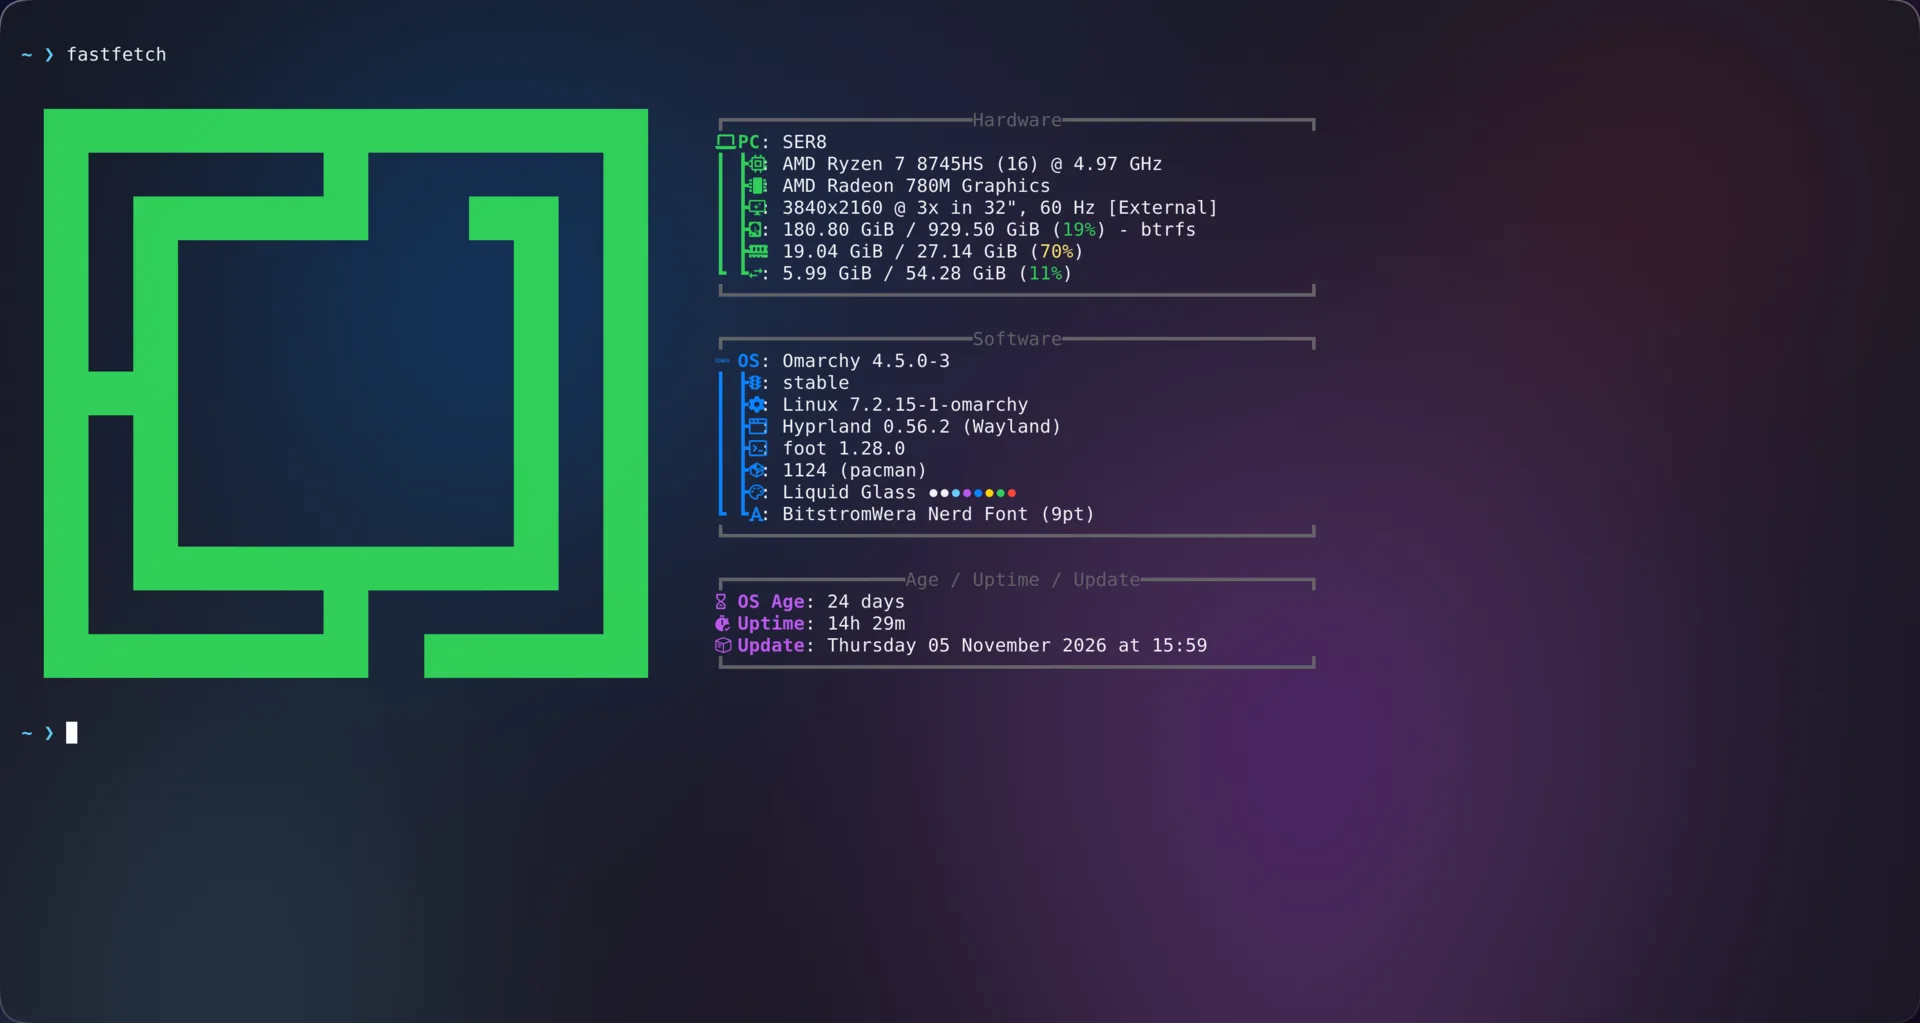
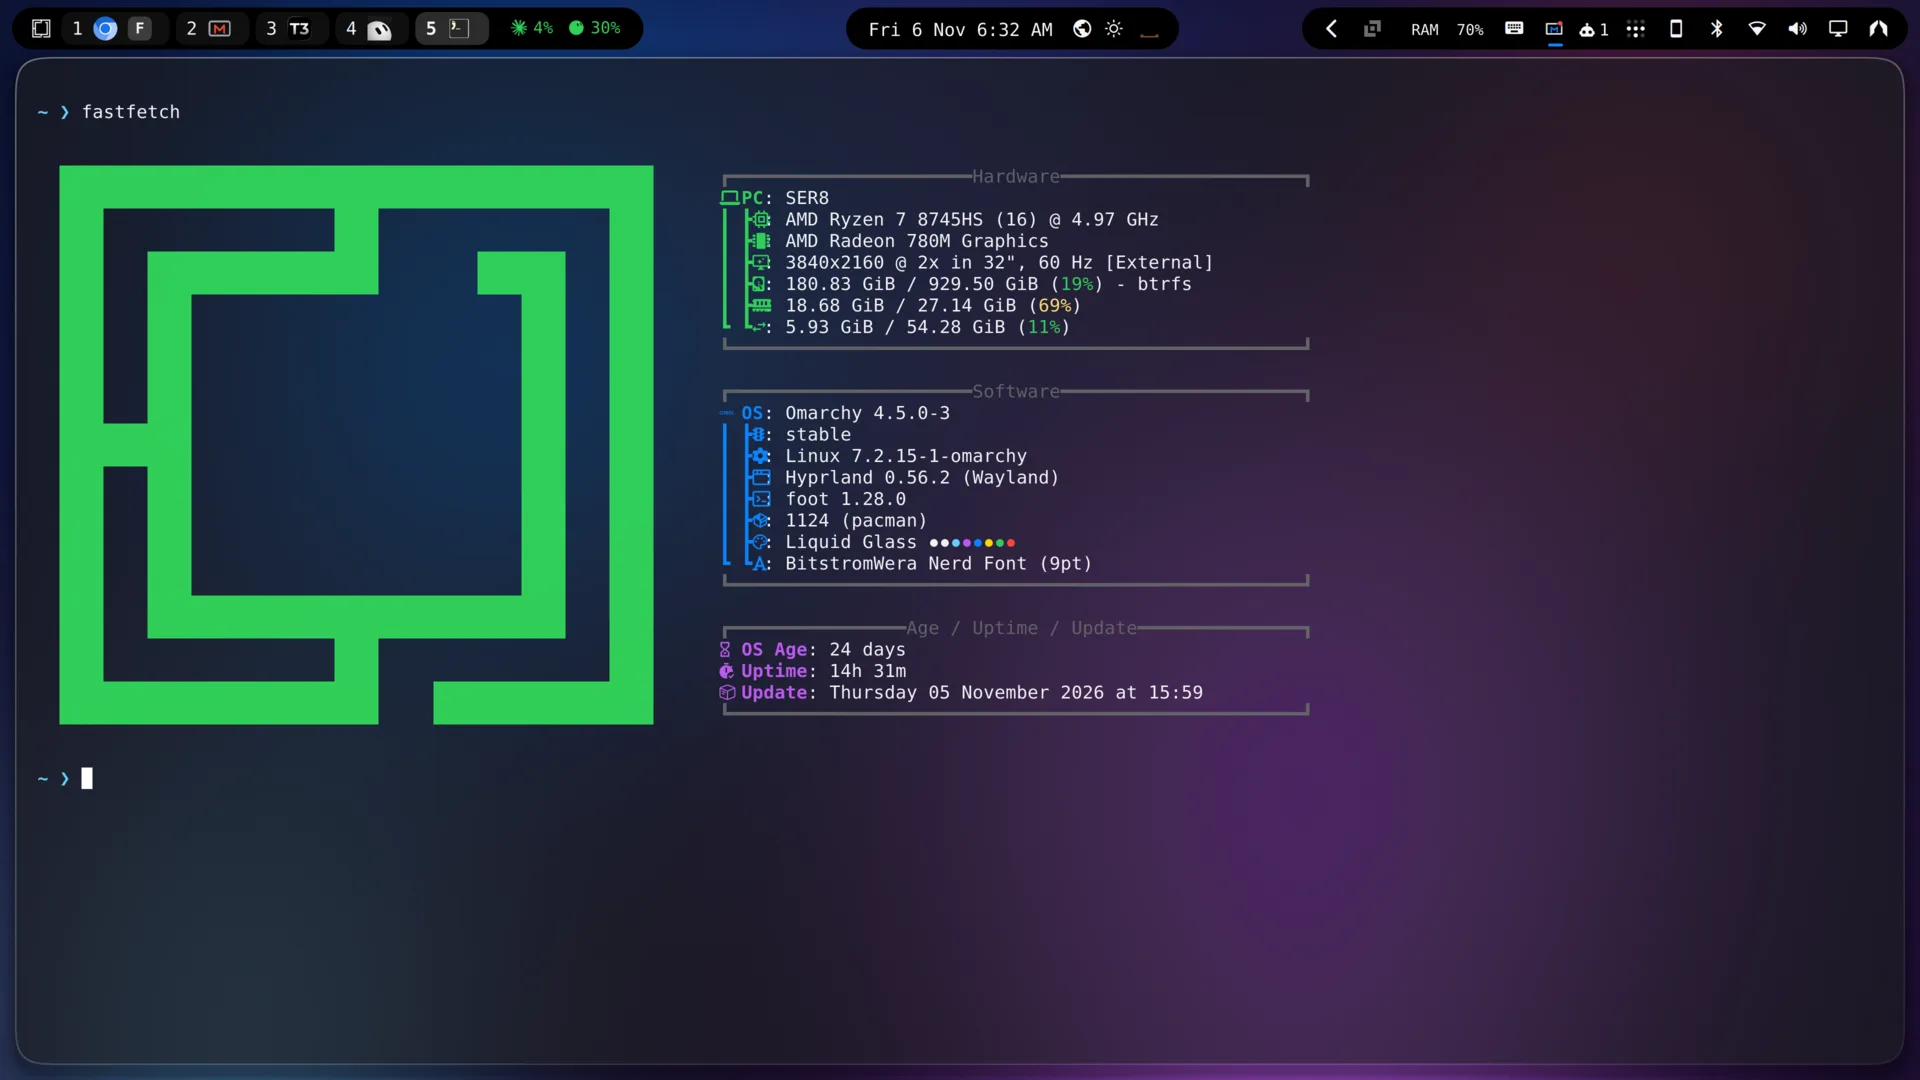
Show the whole screen in the terminal screenshot

diff --git a/README.md b/README.md
@@ -8,7 +8,7 @@ An Apple Liquid Glass style theme for [Omarchy](https://omarchy.org): frosted se
 
 ![Calendar flyout under the island bar](screenshots/calendar.webp)
 
-![See-through terminal running fastfetch](screenshots/terminal.webp)
+![See-through terminal under the island bar](screenshots/terminal.webp)
 
 ## Install
 
